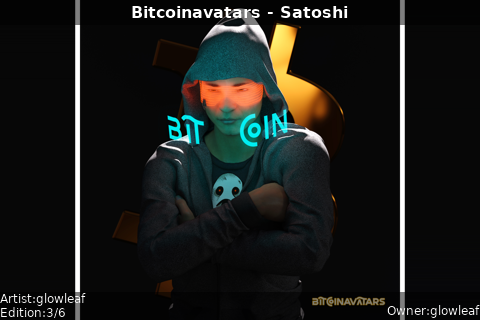
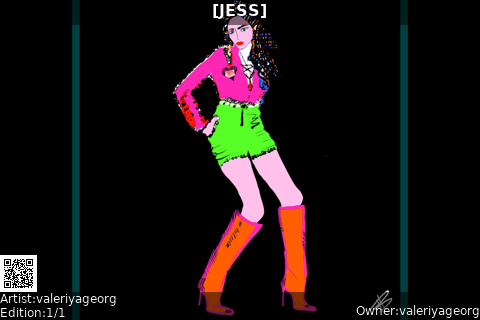
Add QR code to art in Raretoshi panel (#62)

Changed region(s): [[0.2188, 0.0, 1.0, 1.0], [0.0, 0.0, 0.25, 1.0], [0.3125, 0.875, 0.375, 0.9375]]

diff --git a/scripts/raretoshi.py b/scripts/raretoshi.py
@@ -3,6 +3,7 @@ from PIL import Image, ImageDraw, ImageColor
 from os.path import exists
 import json
 import os
+import qrcode
 import random
 import subprocess
 import sys
@@ -46,12 +47,10 @@ def getRaretoshiUserinfo():
     return userinfo
 
 def pickRaretoshiUser(raretoshiinfo):
-#    global userinfoLast
     global randomuserLast
     global raretoshiuser
     if randomuserInterval + randomuserLast < int(time.time()):
         # pick new user
- #       userinfoLast=0
         randomuserLast=int(time.time())
         userlist=[]
         # look at holdings and favorites
@@ -223,6 +222,22 @@ def createimage(width=480, height=320):
         vicarioustext.drawbottomlefttext(draw, "Artist:" + artist, 12, 0, height-12, colorTextFG)
         vicarioustext.drawbottomlefttext(draw, "Edition:" + str(holding["edition"]) + "/" + str(holding["editions"]), 12, 0, height, colorTextFG)
         vicarioustext.drawbottomrighttext(draw, "Owner:" + owner, 12, width, height, colorTextFG)
+    # Show QR code?
+    if showQRCode:
+        print("Creating QR code")
+        slug=holding["slug"]
+        raretoshiurl="https://raretoshi.com/a/" + slug
+        qr = qrcode.QRCode(box_size=1)
+        qr.add_data(raretoshiurl)
+        qr.make()
+        img_qr = qr.make_image()
+        # determine position for bottom left, but not over the artist info
+        qrx = 0
+        qry = height - img_qr.size[1]
+        if overlayText:
+            qry = qry - 28 #bottom overlay
+        qrpos = (qrx, qry)
+        im.paste(img_qr, qrpos)
     # Combine and save
     composite = Image.alpha_composite(im, alpha_img)
     print(f"Done. Saving image to {outputFile}")
@@ -245,6 +260,7 @@ if __name__ == '__main__':
     overlayText=True
     randomuser=True
     sleepInterval=30
+    showQRCode=True
     userinfoInterval=3600
     randomuserInterval=300
     # Inits
@@ -280,6 +296,8 @@ if __name__ == '__main__':
         if "randomuserInterval" in config:
             randomuserInterval = int(config["randomuserInterval"])
             randomuserInterval = 30 if randomuserInterval < 30 else randomuserInterval # minimum 30 seconds, remote access
+        if "showQRCode" in config:
+            showQRCode = config["showQRCode"]
         if "sleepInterval" in config:
             sleepInterval = int(config["sleepInterval"])
             sleepInterval = 30 if sleepInterval < 30 else sleepInterval # minimum 30 seconds, mostly local

diff --git a/README.md b/README.md
@@ -78,6 +78,7 @@ Some scripts make use of rounded_rectangle, which requires Pillow 8.2 or above.
 6. Install torify using the command `sudo apt-get install apt-transport-tor`. 
    This may be used when calling external services like Bisq or Mempool.space to improve privacy.
 7. Install pandas using the command `python3 -m pip install pandas`. This is used by the luxor related scripts.
+8. Install qr code using the command `python3 -m pip install qrcode`. This is used by raretoshi scripts
 
 ### Prepare output folder and clone repository
 

diff --git a/CHANGELOG.md b/CHANGELOG.md
@@ -13,6 +13,7 @@ New Panels and Enhancements
 - Enhanced Raretoshi - Set download timeout to 5 seconds
 - Enhanced Daily Data Retrieval - support for slushpool data 
 - Enhanced Raretoshi panel to allow for traversing user randomly
+- Enhanced Raretoshi panel to support QR code hyperlink
 
 General
 - Externalized configuration from scripts to json files
